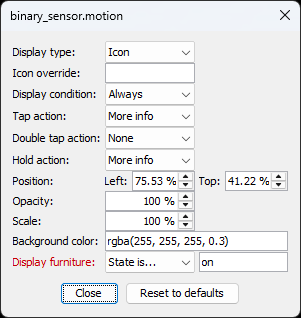
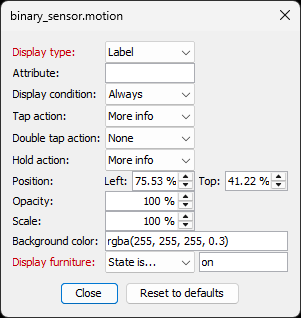
Allow specifiying label attribute
Closes #187

Changed region(s): [[0.0299, 0.1415, 0.2691, 0.2547], [0.3588, 0.1415, 0.4485, 0.1981]]

diff --git a/src/com/shmuelzon/HomeAssistantFloorPlan/Entity.java b/src/com/shmuelzon/HomeAssistantFloorPlan/Entity.java
@@ -40,6 +40,7 @@ public class Entity implements Comparable<Entity> {
 
     private static final String SETTING_NAME_DISPLAY_TYPE = "displayType";
     private static final String SETTING_NAME_ICON_OVERRIDE = "iconOverride";
+    private static final String SETTING_NAME_ATTRIBUTE = "attribute";
     private static final String SETTING_NAME_DISPLAY_CONDITION = "displayCondition";
     private static final String SETTING_NAME_TAP_ACTION = "tapAction";
     private static final String SETTING_NAME_TAP_ACTION_VALUE = "tapActionValue";
@@ -68,6 +69,7 @@ public class Entity implements Comparable<Entity> {
     private String backgroundColor;
     private DisplayType displayType;
     private String iconOverride;
+    private String attribute;
     private DisplayCondition displayCondition;
     private Action tapAction;
     private String tapActionValue;
@@ -159,6 +161,19 @@ public class Entity implements Comparable<Entity> {
 
     public boolean isIconOverrideModified() {
         return settings.get(name + "." + SETTING_NAME_ICON_OVERRIDE) != null;
+    }
+
+    public String getAttribute() {
+        return attribute;
+    }
+
+    public void setAttribute(String attribute) {
+        this.attribute = attribute;
+        settings.set(name + "." + SETTING_NAME_ATTRIBUTE, attribute.isEmpty() ? null : attribute);
+    }
+
+    public boolean isAttributeModified() {
+        return settings.get(name + "." + SETTING_NAME_ATTRIBUTE) != null;
     }
 
     public DisplayCondition getDisplayCondition() {
@@ -411,6 +426,7 @@ public class Entity implements Comparable<Entity> {
 
         settings.set(name + "." + SETTING_NAME_DISPLAY_TYPE, null);
         settings.set(name + "." + SETTING_NAME_ICON_OVERRIDE, null);
+        settings.set(name + "." + SETTING_NAME_ATTRIBUTE, null);
         settings.set(name + "." + SETTING_NAME_DISPLAY_CONDITION, null);
         settings.set(name + "." + SETTING_NAME_TAP_ACTION, null);
         settings.set(name + "." + SETTING_NAME_TAP_ACTION_VALUE, null);
@@ -510,9 +526,11 @@ public class Entity implements Comparable<Entity> {
         if (displayCondition == Entity.DisplayCondition.NEVER || getAlwaysOn())
             return "";
 
-        String iconYaml = "";
+        String additionalYaml = "";
         if (displayType == DisplayType.ICON && ! iconOverride.isEmpty())
-            iconYaml = String.format("    icon: %s\n", iconOverride);
+            additionalYaml = String.format("    icon: %s\n", iconOverride);
+        if (displayType == DisplayType.LABEL && !attribute.isEmpty())
+            additionalYaml = String.format("    attribute: %s\n", attribute);
 
         String yaml = String.format(Locale.US,
             "  - type: %s\n" +
@@ -533,7 +551,7 @@ public class Entity implements Comparable<Entity> {
             "      action: %s\n" +
             "    hold_action:\n" +
             "      action: %s\n",
-            displayTypeToYamlString.get(displayType), name, title, iconYaml, position.y, position.x, backgroundColor, opacity, scale,
+            displayTypeToYamlString.get(displayType), name, title, additionalYaml, position.y, position.x, backgroundColor, opacity, scale,
             actionYaml(tapAction, tapActionValue), actionYaml(doubleTapAction, doubleTapActionValue), actionYaml(holdAction, holdActionValue));
 
         if (displayCondition == DisplayCondition.ALWAYS)
@@ -600,7 +618,8 @@ public class Entity implements Comparable<Entity> {
         name = firstPiece.getName();
         position = loadPosition();
         displayType = getSavedEnumValue(DisplayType.class, name + "." + SETTING_NAME_DISPLAY_TYPE, defaultDisplayType());
-        iconOverride = settings.get(name + "." + SETTING_NAME_DISPLAY_TYPE, "");
+        iconOverride = settings.get(name + "." + SETTING_NAME_ICON_OVERRIDE, "");
+        attribute = settings.get(name + "." + SETTING_NAME_ATTRIBUTE, "");
         displayCondition = getSavedEnumValue(DisplayCondition.class, name + "." + SETTING_NAME_DISPLAY_CONDITION, DisplayCondition.ALWAYS);
         tapAction = getSavedEnumValue(Action.class, name + "." + SETTING_NAME_TAP_ACTION, defaultAction());
         tapActionValue = settings.get(name + "." + SETTING_NAME_TAP_ACTION_VALUE, "");

diff --git a/src/com/shmuelzon/HomeAssistantFloorPlan/EntityOptionsPanel.java b/src/com/shmuelzon/HomeAssistantFloorPlan/EntityOptionsPanel.java
@@ -45,6 +45,8 @@ public class EntityOptionsPanel extends JPanel {
     private JComboBox<Entity.DisplayType> displayTypeComboBox;
     private JLabel iconOverrideLabel;
     private JTextField iconOverrideTextField;
+    private JLabel attributeLabel;
+    private JTextField attributeTextField;
     private JLabel displayConditionLabel;
     private JComboBox<Entity.DisplayCondition> displayConditionComboBox;
     private JLabel tapActionLabel;
@@ -140,6 +142,19 @@ public class EntityOptionsPanel extends JPanel {
             public void executeUpdate(DocumentEvent e) {
                 String iconOverride = iconOverrideTextField.getText();
                 entity.setIconOverride(iconOverride);
+                markModified();
+            }
+        });
+
+        attributeLabel = new JLabel();
+        attributeLabel.setText(resource.getString("HomeAssistantFloorPlan.Panel.attributeLabel.text"));
+        attributeTextField = new JTextField(10);
+        attributeTextField.setText(entity.getAttribute());
+        attributeTextField.getDocument().addDocumentListener(new SimpleDocumentListener() {
+            @Override
+            public void executeUpdate(DocumentEvent e) {
+                String attribute = attributeTextField.getText();
+                entity.setAttribute(attribute);
                 markModified();
             }
         });
@@ -470,6 +485,16 @@ public class EntityOptionsPanel extends JPanel {
             GridBagConstraints.HORIZONTAL, insets, 0, 0));
         currentGridYIndex++;
 
+        /* Attribute */
+        add(attributeLabel, new GridBagConstraints(
+            0, currentGridYIndex, 1, 1, 0, 0, GridBagConstraints.CENTER,
+            GridBagConstraints.HORIZONTAL, insets, 0, 0));
+        attributeLabel.setHorizontalAlignment(labelAlignment);
+        add(attributeTextField, new GridBagConstraints(
+            1, currentGridYIndex, 2, 1, 0, 0, GridBagConstraints.LINE_START,
+            GridBagConstraints.HORIZONTAL, insets, 0, 0));
+        currentGridYIndex++;
+
         /* Display Condition */
         add(displayConditionLabel, new GridBagConstraints(
             0, currentGridYIndex, 1, 1, 0, 0, GridBagConstraints.CENTER,
@@ -631,6 +656,7 @@ public class EntityOptionsPanel extends JPanel {
 
         displayTypeLabel.setForeground(entity.isDisplayTypeModified() ? modifiedColor : Color.BLACK);
         iconOverrideLabel.setForeground(entity.isIconOverrideModified() ? modifiedColor : Color.BLACK);
+        attributeLabel.setForeground(entity.isAttributeModified() ? modifiedColor : Color.BLACK);
         displayConditionLabel.setForeground(entity.isDisplayConditionModified() ? modifiedColor : Color.BLACK);
         tapActionLabel.setForeground(entity.isTapActionModified() ? modifiedColor : Color.BLACK);
         doubleTapActionLabel.setForeground(entity.isDoubleTapActionModified() ? modifiedColor : Color.BLACK);
@@ -648,6 +674,8 @@ public class EntityOptionsPanel extends JPanel {
     private void showHideComponents() {
         iconOverrideLabel.setVisible((Entity.DisplayType)displayTypeComboBox.getSelectedItem() == Entity.DisplayType.ICON);
         iconOverrideTextField.setVisible((Entity.DisplayType)displayTypeComboBox.getSelectedItem() == Entity.DisplayType.ICON);
+        attributeLabel.setVisible((Entity.DisplayType)displayTypeComboBox.getSelectedItem() == Entity.DisplayType.LABEL);
+        attributeTextField.setVisible((Entity.DisplayType)displayTypeComboBox.getSelectedItem() == Entity.DisplayType.LABEL);
         tapActionValueTextField.setVisible((Entity.Action)tapActionComboBox.getSelectedItem() == Entity.Action.NAVIGATE);
         doubleTapActionValueTextField.setVisible((Entity.Action)doubleTapActionComboBox.getSelectedItem() == Entity.Action.NAVIGATE);
         holdActionValueTextField.setVisible((Entity.Action)holdActionComboBox.getSelectedItem() == Entity.Action.NAVIGATE);

diff --git a/README.md b/README.md
@@ -115,6 +115,7 @@ that allow you to customize the entity according to your needs.
 * Display type - Configure how the entity is displayed on the floorplan, see
   [Elements](https://www.home-assistant.io/dashboards/picture-elements/#elements)
 * Icon override - Allow overriding the default entity icon
+* Attribute - Allow specifying the attribute to show for entity label
 * Display condition - Configure when the entity should be displayed
 * Tap action - Define what to do when the entity is tapped/clicked on, see
   [Tap action](https://www.home-assistant.io/dashboards/actions/#tap-action)
